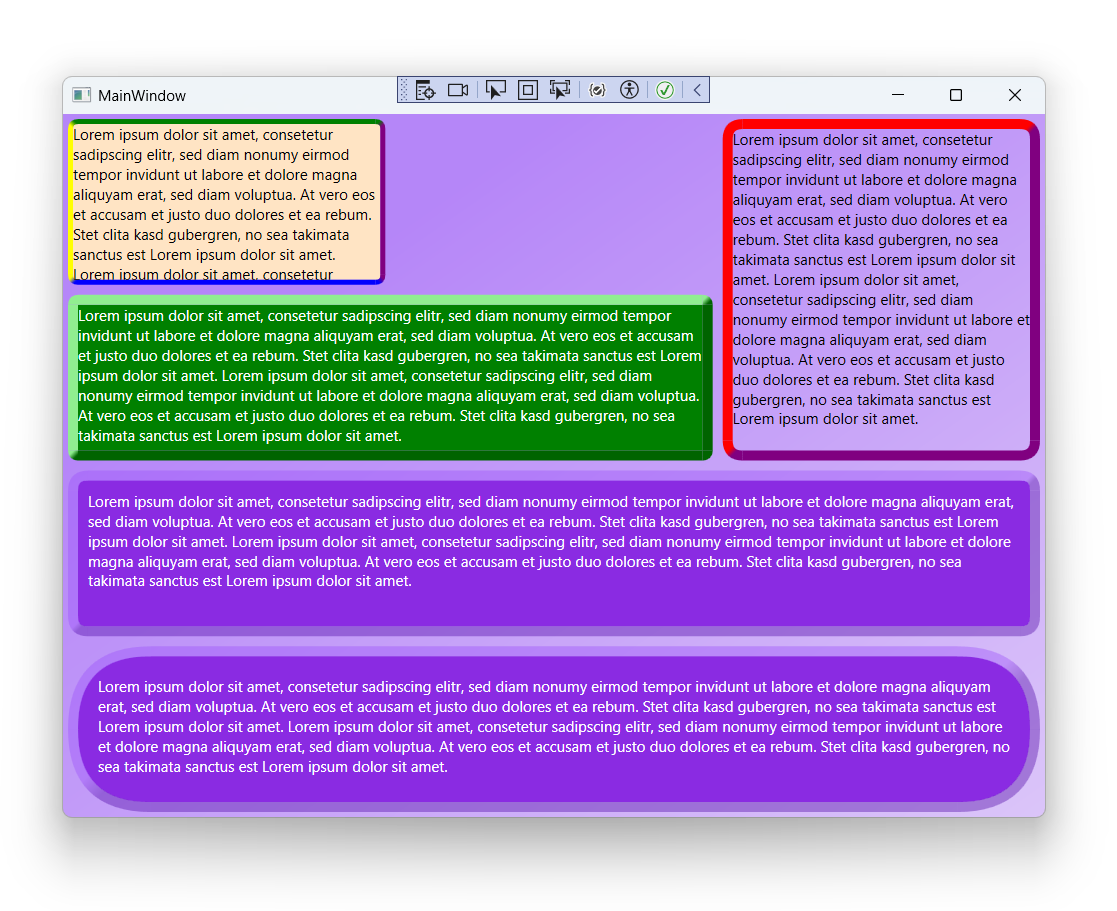
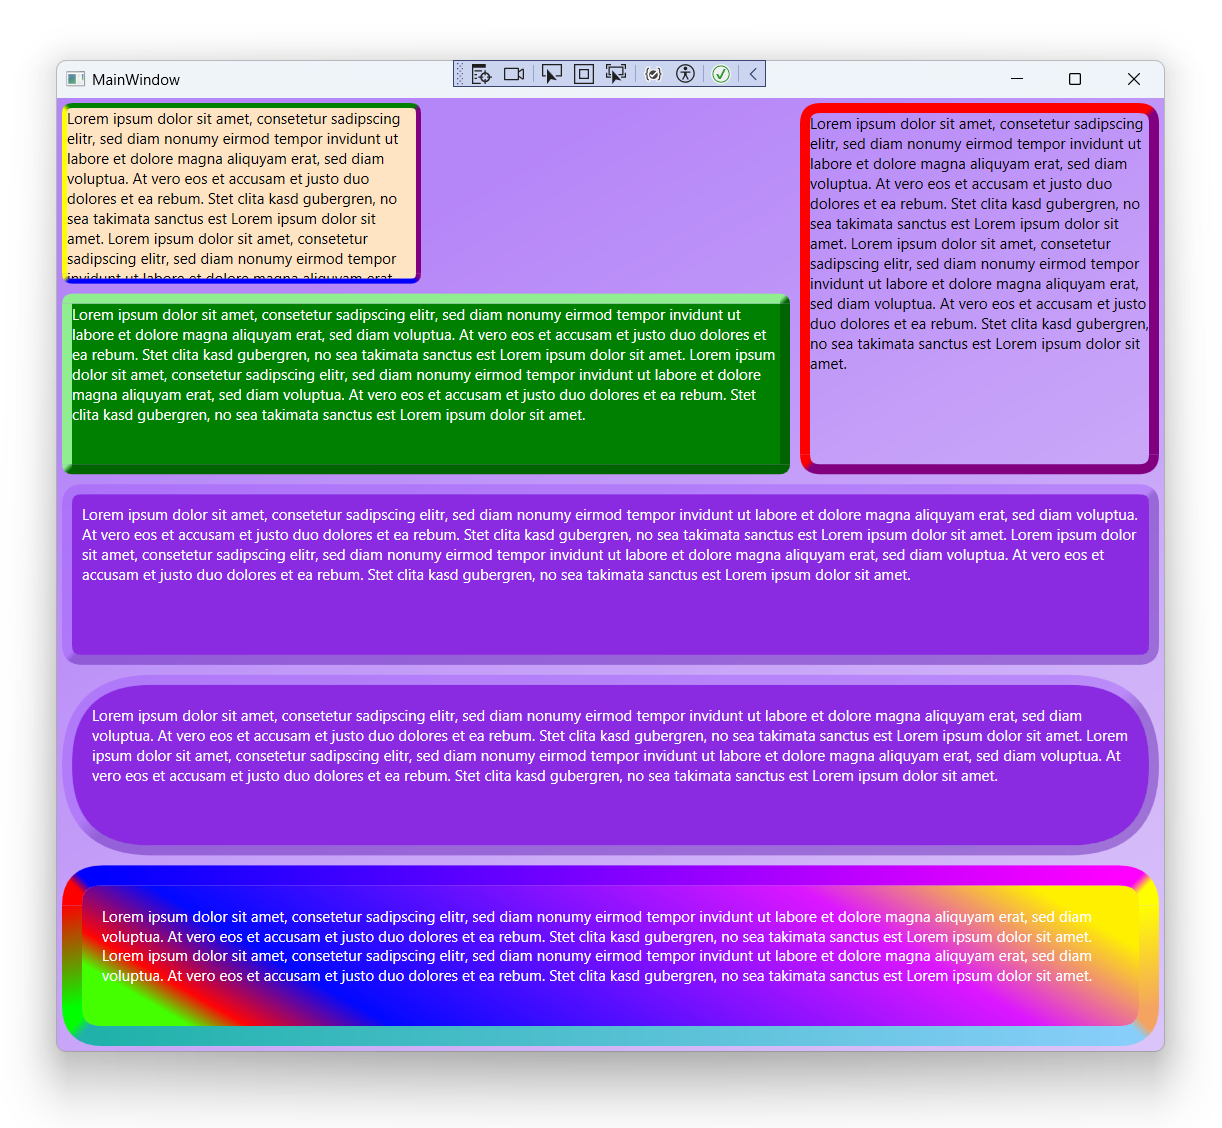
Support LinearGradient in sides

diff --git a/Source/Sundew.Xaml.Controls.Wpf.Tester/MainWindow.xaml b/Source/Sundew.Xaml.Controls.Wpf.Tester/MainWindow.xaml
@@ -5,8 +5,24 @@
         xmlns:mc="http://schemas.openxmlformats.org/markup-compatibility/2006"
         xmlns:sx="http://sundew.dev/xaml"
         mc:Ignorable="d"
-        Title="MainWindow" Height="600" Width="800">
+        Title="MainWindow" Height="800" Width="900">
     <Window.Resources>
+        <LinearGradientBrush x:Key="LeftGradient" StartPoint="0,0" EndPoint="1,1">
+            <GradientStop Color="#FFFF0000" />
+            <GradientStop Color="#FF00FF00" Offset="1"/>
+        </LinearGradientBrush>
+        <LinearGradientBrush x:Key="TopGradient" StartPoint="0,0" EndPoint="1,1">
+            <GradientStop Color="#FF0000FF" />
+            <GradientStop Color="#FFFF00FF" Offset="1"/>
+        </LinearGradientBrush>
+        <LinearGradientBrush x:Key="RightGradient" StartPoint="0,0" EndPoint="1,1">
+            <GradientStop Color="#FFFFFF00" />
+            <GradientStop Color="SandyBrown" Offset="1"/>
+        </LinearGradientBrush>
+        <LinearGradientBrush x:Key="BottomGradient" StartPoint="0,0" EndPoint="1,1">
+            <GradientStop Color="LightSeaGreen" />
+            <GradientStop Color="LightSkyBlue" Offset="1"/>
+        </LinearGradientBrush>
         <SolidColorBrush x:Key="Left">#669B50F9</SolidColorBrush>
         <SolidColorBrush x:Key="Top">#669B50F9</SolidColorBrush>
         <SolidColorBrush x:Key="Right">#664F07A7</SolidColorBrush>
@@ -57,12 +73,41 @@
                     <TextBlock Foreground="White" TextWrapping="Wrap">Lorem ipsum dolor sit amet, consetetur sadipscing elitr, sed diam nonumy eirmod tempor invidunt ut labore et dolore magna aliquyam erat, sed diam voluptua. At vero eos et accusam et justo duo dolores et ea rebum. Stet clita kasd gubergren, no sea takimata sanctus est Lorem ipsum dolor sit amet. Lorem ipsum dolor sit amet, consetetur sadipscing elitr, sed diam nonumy eirmod tempor invidunt ut labore et dolore magna aliquyam erat, sed diam voluptua. At vero eos et accusam et justo duo dolores et ea rebum. Stet clita kasd gubergren, no sea takimata sanctus est Lorem ipsum dolor sit amet.</TextBlock>
                 </Grid>
             </sx:Border>
+            <sx:Border Margin="4" Padding="16" CornerRadius="32" BorderThickness="16" CornerStops="0.4,0.6" Grid.Row="4" Grid.Column="0" Grid.ColumnSpan="3">
+                <sx:Border.Background>
+                    <LinearGradientBrush StartPoint="0,0.5" EndPoint="1,0.5" >
+                        <LinearGradientBrush.RelativeTransform>
+                            <TransformGroup>
+                                <ScaleTransform CenterY="0.5" CenterX="0.5"/>
+                                <SkewTransform CenterX="0.5" CenterY="0.5"/>
+                                <RotateTransform Angle="-13" CenterX="0.5" CenterY="0.5"/>
+                                <TranslateTransform/>
+                            </TransformGroup>
+                        </LinearGradientBrush.RelativeTransform>
+                        <GradientStop Color="#FFFF0404" Offset="0.053"/>
+                        <GradientStop Color="#FF44FF00" Offset="0"/>
+                        <GradientStop Color="#FF0208FF" Offset="0.186"/>
+                        <GradientStop Color="#FFDC17FF" Offset="0.783"/>
+                        <GradientStop Color="#FFFFF000" Offset="1"/>
+                    </LinearGradientBrush>
+                </sx:Border.Background>
+                <sx:Border.SideBrushes>
+                    <sx:SideBrushes Left="{StaticResource LeftGradient}"
+                                    Top="{StaticResource TopGradient}"
+                                    Right="{StaticResource RightGradient}"
+                                    Bottom="{StaticResource BottomGradient}"/>
+                </sx:Border.SideBrushes>
+                <Grid>
+                    <TextBlock Foreground="White" TextWrapping="Wrap">Lorem ipsum dolor sit amet, consetetur sadipscing elitr, sed diam nonumy eirmod tempor invidunt ut labore et dolore magna aliquyam erat, sed diam voluptua. At vero eos et accusam et justo duo dolores et ea rebum. Stet clita kasd gubergren, no sea takimata sanctus est Lorem ipsum dolor sit amet. Lorem ipsum dolor sit amet, consetetur sadipscing elitr, sed diam nonumy eirmod tempor invidunt ut labore et dolore magna aliquyam erat, sed diam voluptua. At vero eos et accusam et justo duo dolores et ea rebum. Stet clita kasd gubergren, no sea takimata sanctus est Lorem ipsum dolor sit amet.</TextBlock>
+                </Grid>
+            </sx:Border>
             <Grid.ColumnDefinitions>
                 <ColumnDefinition/>
                 <ColumnDefinition/>
                 <ColumnDefinition/>
             </Grid.ColumnDefinitions>
             <Grid.RowDefinitions>
+                <RowDefinition/>
                 <RowDefinition/>
                 <RowDefinition/>
                 <RowDefinition/>

diff --git a/Source/Sundew.Xaml.Controls.Wpf/Border.cs b/Source/Sundew.Xaml.Controls.Wpf/Border.cs
@@ -160,27 +160,88 @@ public class Border : System.Windows.Controls.Border
 
     private (Brush TopLeft, Brush TopRight, Brush BottomRight, Brush BottomLeft) GetCornerBrushes(SideBrushes sideBrushes, CornerStops cornerStops)
     {
-        var topLeftBrush = GetBrush(sideBrushes.Top, sideBrushes.Left, cornerStops.TopLeft, TopRight, BottomLeft);
-        var topRightBrush = GetBrush(sideBrushes.Top, sideBrushes.Right, cornerStops.TopRight, TopLeft, BottomRight);
-        var bottomRightBrush = GetBrush(sideBrushes.Bottom, sideBrushes.Right, cornerStops.BottomRight, BottomLeft, TopRight);
-        var bottomLeftBrush = GetBrush(sideBrushes.Bottom, sideBrushes.Left, cornerStops.BottomLeft, BottomRight, TopLeft);
+        var topLeftBrush = GetBrush(sideBrushes.Left, sideBrushes.Top, cornerStops.TopLeft, BottomLeft, TopRight, Corner.TopLeft);
+        var topRightBrush = GetBrush(sideBrushes.Top, sideBrushes.Right, cornerStops.TopRight, TopLeft, BottomRight, Corner.TopRight);
+        var bottomRightBrush = GetBrush(sideBrushes.Right, sideBrushes.Bottom, cornerStops.BottomRight, TopRight, BottomLeft, Corner.BottomRight);
+        var bottomLeftBrush = GetBrush(sideBrushes.Bottom, sideBrushes.Left, cornerStops.BottomLeft, BottomRight, TopLeft, Corner.BottomLeft);
         return (topLeftBrush, topRightBrush, bottomRightBrush, bottomLeftBrush);
     }
 
-    private Brush GetBrush(Brush first, Brush second, Stops stops, Point firstPoint, Point secondPoint)
+    private Brush GetBrush(Brush first, Brush second, Stops stops, Point firstPoint, Point secondPoint, Corner corner)
     {
         switch ((first, second))
         {
-            case (SolidColorBrush firstBrush, SolidColorBrush secondBrush):
+            case (SolidColorBrush firstBrush1, SolidColorBrush secondBrush1):
                 return new LinearGradientBrush(
                     new GradientStopCollection([
-                        new GradientStop(firstBrush.Color, 0),
-                            new GradientStop(firstBrush.Color, stops.First),
-                            new GradientStop(secondBrush.Color, stops.Second),
-                            new GradientStop(secondBrush.Color, 1)
+                        new GradientStop(firstBrush1.Color, 0),
+                        new GradientStop(firstBrush1.Color, stops.First),
+                        new GradientStop(secondBrush1.Color, stops.Second),
+                        new GradientStop(secondBrush1.Color, 1)
+                    ]), firstPoint, secondPoint);
+            case (SolidColorBrush firstBrush2, LinearGradientBrush secondBrush2):
+                var reverseSecond2 = corner is Corner.TopLeft or Corner.TopRight;
+                var endColor2 = GetSecond(secondBrush2, reverseSecond2);
+                return new LinearGradientBrush(
+                    new GradientStopCollection([
+                        new GradientStop(firstBrush2.Color, 0),
+                        new GradientStop(firstBrush2.Color, stops.First),
+                        new GradientStop(endColor2, stops.Second),
+                        new GradientStop(endColor2, 1)
+                    ]), firstPoint, secondPoint);
+            case (LinearGradientBrush firstBrush, SolidColorBrush secondBrush):
+                var reverseFirst3 = corner is Corner.TopRight or Corner.BottomRight;
+                var firstColor3 = GetFirst(firstBrush, reverseFirst3);
+                return new LinearGradientBrush(
+                    new GradientStopCollection([
+                        new GradientStop(firstColor3, 0),
+                        new GradientStop(firstColor3, stops.First),
+                        new GradientStop(secondBrush.Color, stops.Second),
+                        new GradientStop(secondBrush.Color, 1)
+                    ]), firstPoint, secondPoint);
+            case (LinearGradientBrush firstBrush, LinearGradientBrush secondBrush):
+                var reverseFirst4 = corner is Corner.TopRight or Corner.BottomRight;
+                var reverseSecond4 = corner is Corner.TopLeft or Corner.TopRight;
+                var firstColor4 = GetFirst(firstBrush, reverseFirst4);
+                var endColor4 = GetSecond(secondBrush, reverseSecond4);
+                return new LinearGradientBrush(
+                    new GradientStopCollection([
+                        new GradientStop(firstColor4, 0),
+                        new GradientStop(firstColor4, stops.First),
+                        new GradientStop(endColor4, stops.Second),
+                        new GradientStop(endColor4, 1)
                     ]), firstPoint, secondPoint);
         }
 
         return first;
+    }
+
+    private Color GetFirst(LinearGradientBrush brush, bool reverse)
+    {
+        if (reverse)
+        {
+            return brush.GradientStops.Count > 0 ? brush.GradientStops[^1].Color : Colors.Transparent;
+        }
+
+        return brush.GradientStops.Count > 0 ? brush.GradientStops[0].Color : Colors.Transparent;
+
+    }
+
+    private Color GetSecond(LinearGradientBrush brush, bool reverse)
+    {
+        if (reverse)
+        {
+            return brush.GradientStops.Count > 0 ? brush.GradientStops[0].Color : Colors.Transparent;
+        }
+
+        return brush.GradientStops.Count > 0 ? brush.GradientStops[^1].Color : Colors.Transparent;
+    }
+
+    private enum Corner
+    {
+        TopLeft,
+        TopRight,
+        BottomRight,
+        BottomLeft,
     }
 }

diff --git a/README.md b/README.md
@@ -11,5 +11,4 @@
 * Drawing the corners so they align is hard, probably some better pixel alignment is needed.
 * Only supports uniform Border thickness (How to immitate a variable sized Pen? when drawing borders)
 * Port to WinUI, Avalonia, Maui?
-* Support LinearGradientBrush on sides
 * Performance optimizations
